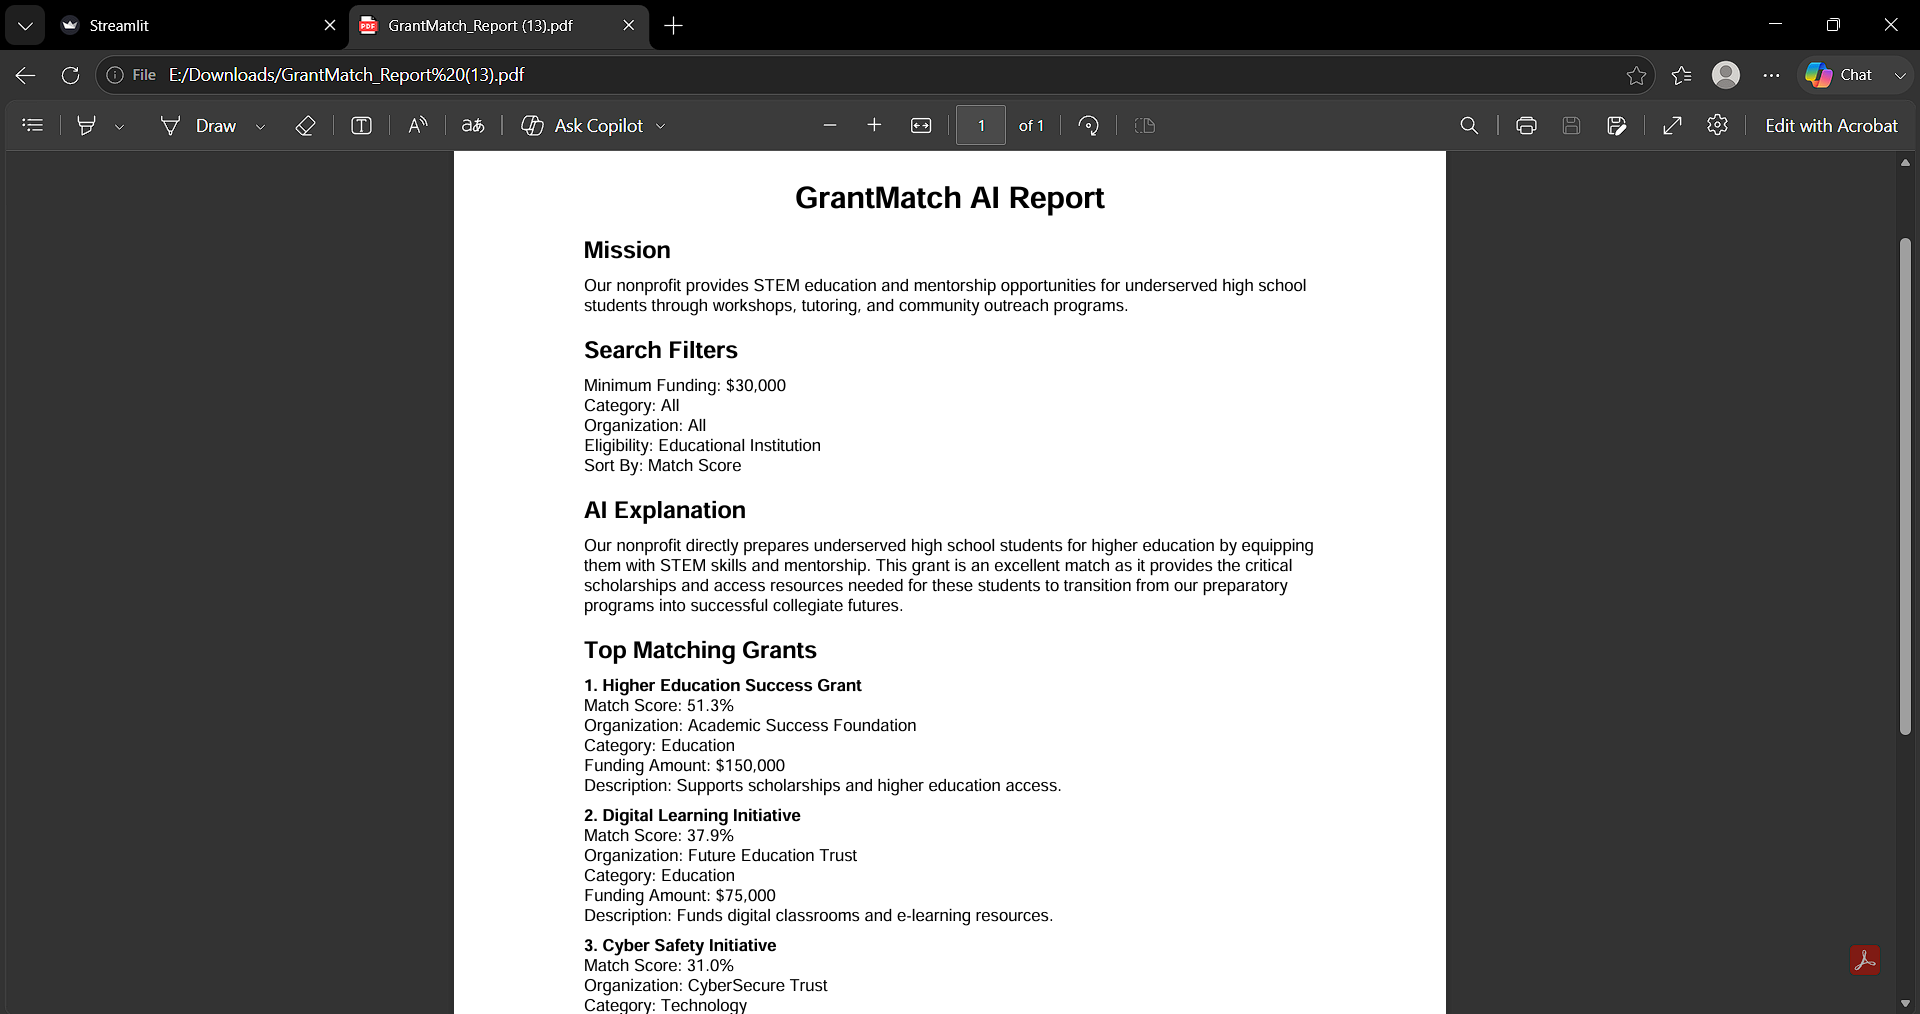
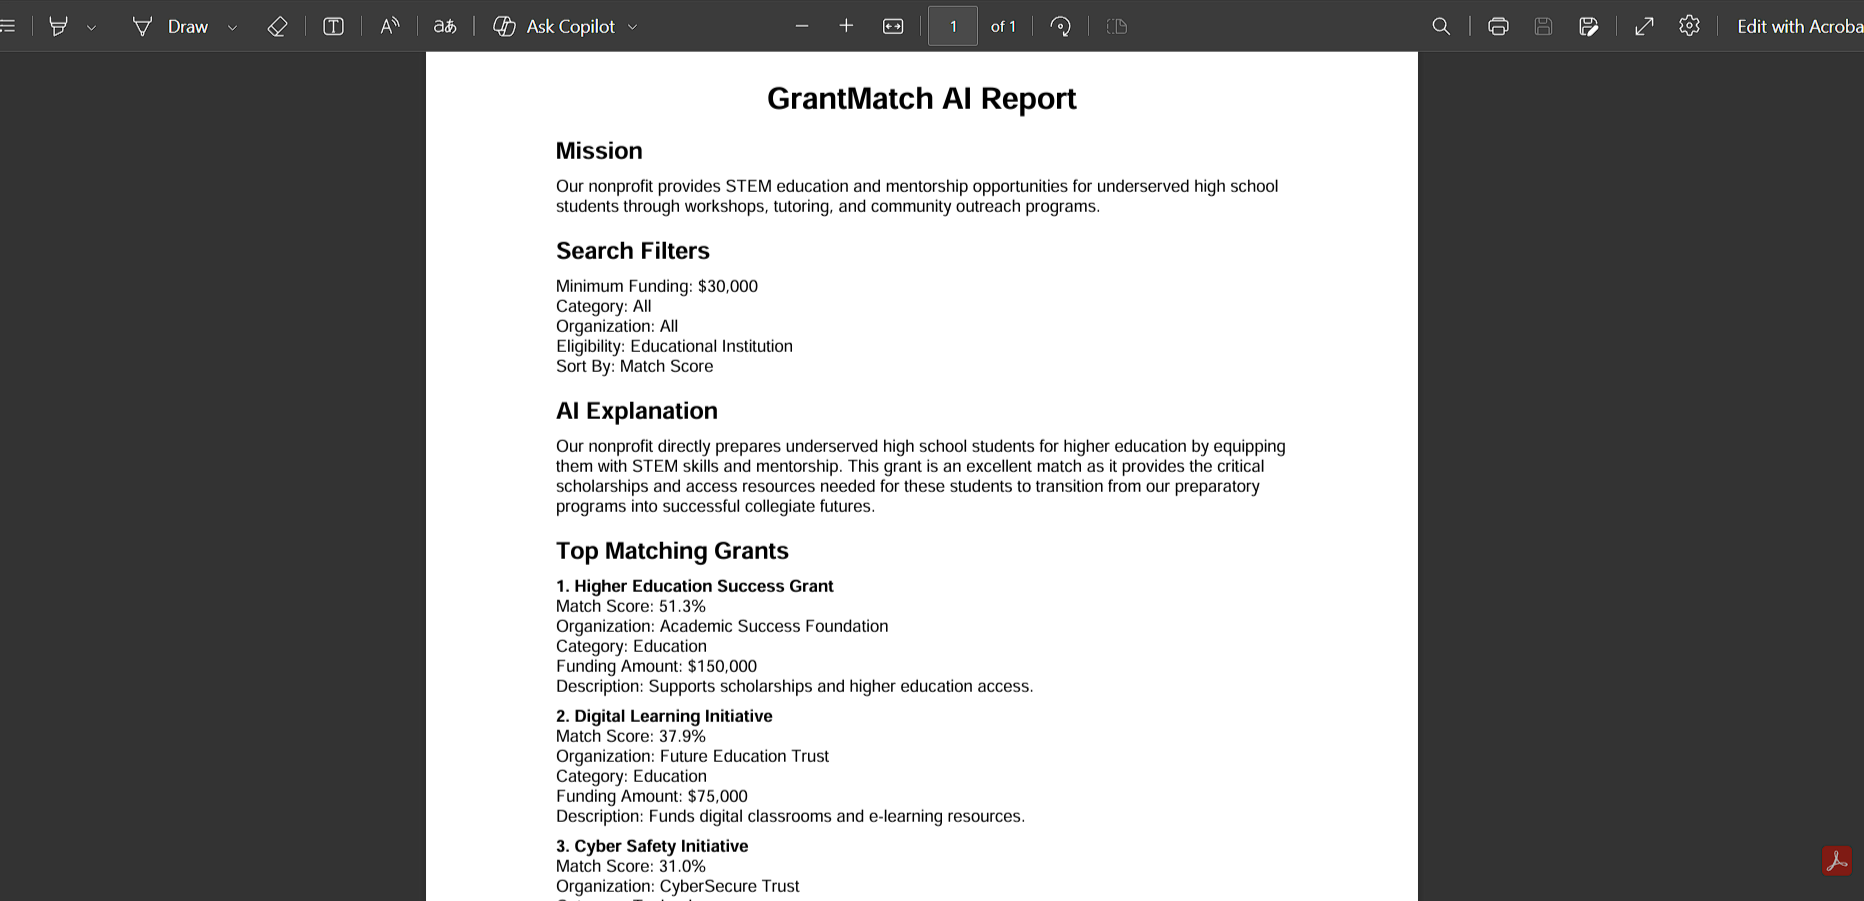
Polish UI and update project screenshots

diff --git a/app.py b/app.py
@@ -501,8 +501,14 @@ Explain in 2-3 sentences why this grant is a good match for the mission.
 
 st.title("GrantMatch AI")
 
+st.info(
+        """
+    GrantMatch AI helps nonprofits discover funding opportunities aligned with their mission. Upload a mission document or describe your mission, apply filters, and receive personalized grant recommendations, AI-generated insights, and a downloadable PDF report.
+"""
+)
+
 uploaded_file = st.file_uploader(
-    "Upload Mission PDF",
+    "Upload Mission Document (PDF)",
     type=["pdf"]
 )
 
@@ -522,11 +528,11 @@ if uploaded_file:
 mission = st.text_area(
     "Describe your nonprofit mission",
     value=pdf_text if uploaded_file else"",
-    placeholder="Example: We provide STEM education and mentorship for underserved students."
+    placeholder="Example: We provide STEM education, mentorship, and career development programs for high school students."
 )
 
 st.caption(
-    "📝 Minimum 6 meaningful words. Avoid abbreviations or random characters."
+    "📝 Enter a clear nonprofit mission statement (minimum 6 meaningful words). Avoid abbreviations and random characters."
 )
 
 min_funding = st.number_input(